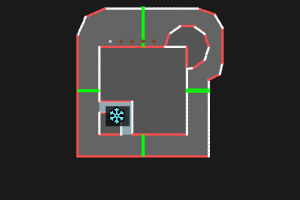
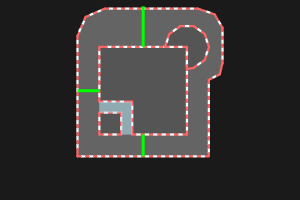
map preview overwrite fix

diff --git a/client/mapEditor.js b/client/mapEditor.js
@@ -2278,43 +2278,6 @@ function drawAreaEffect(area, isSelected, isHovered = false) {
     drawVertices(area.vertices);
   }
   
-  // Draw effect icon in center of area
-  const centerX = area.vertices.reduce((sum, v) => sum + v.x, 0) / area.vertices.length;
-  const centerY = area.vertices.reduce((sum, v) => sum + v.y, 0) / area.vertices.length;
-  
-  editorCtx.save();
-  editorCtx.translate(centerX, -centerY);
-  editorCtx.scale(1 / zoom, 1 / zoom);
-  
-  editorCtx.fillStyle = '#fff';
-  editorCtx.font = 'bold 16px Arial';
-  editorCtx.textAlign = 'center';
-  editorCtx.textBaseline = 'middle';
-  
-  let icon = '';
-  switch (area.effect) {
-    case 'ice':
-      icon = '❄';
-      break;
-    case 'lava':
-      icon = '🔥';
-      break;
-    case 'boost':
-      icon = '⚡';
-      break;
-    case 'slow':
-      icon = '🐌';
-      break;
-    default:
-      icon = '?';
-  }
-  
-  editorCtx.fillStyle = 'rgba(0, 0, 0, 0.7)';
-  editorCtx.fillRect(-12, -10, 24, 20);
-  
-  editorCtx.fillStyle = '#fff';
-  editorCtx.fillText(icon, 0, 0);
-  
   editorCtx.restore();
 }
 

diff --git a/server.js b/server.js
@@ -456,6 +456,15 @@ app.post('/api/maps/preview', mapUploadLimiter, requireAuth, async (req, res) =>
           return sendError(res, 400, 'Invalid file path');
         }
 
+        // Remove any existing preview files for this map ID (any extension)
+        const possibleExtensions = ['png', 'jpg', 'jpeg'];
+        for (const ext of possibleExtensions) {
+          const oldPath = path.join(previewsDir, `${mapId}.${ext}`);
+          if (fs.existsSync(oldPath)) {
+            fs.unlinkSync(oldPath);
+          }
+        }
+
         fs.copyFileSync(file.filepath, targetPath);
         fs.unlinkSync(file.filepath);
 
